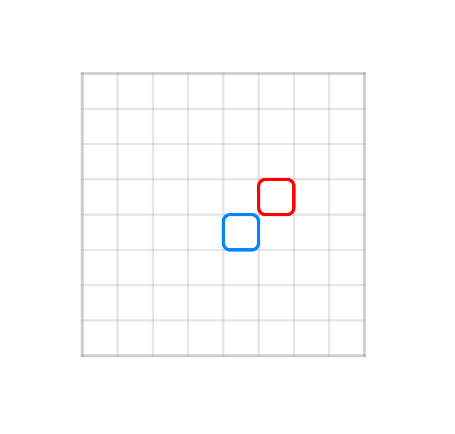
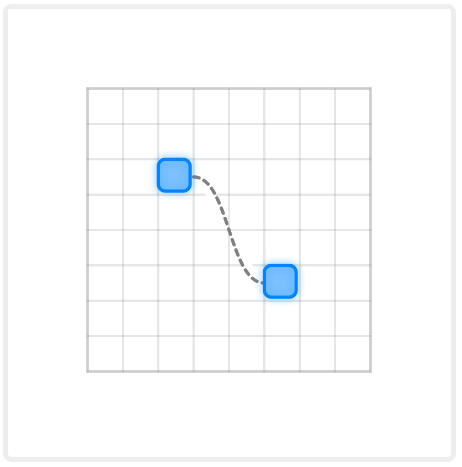
added examples

Changed region(s): [[0.1538, 0.1498, 0.8, 0.8387]]

diff --git a/README.md b/README.md
@@ -29,7 +29,7 @@ Basic usage:
 
 As result we get following canvas: 
 
-![example 1](./images/ex1.png)
+![example 0](./images/ex0.png)
 
 Camera can be setup with several parameters passed as props to Canvas component. Following properties are:
 ```ts
@@ -217,3 +217,139 @@ distance(x1: number, y1: number, x2: number, y2: number): number
 distanceMouse(x: number, y: number): number
 // returns distance between (x,y) and mouse position on plane
 ```
+
+## Examples
+### Click and translate
+```ts
+update=(cx) => {
+  cx.strokeWeight(3);
+  cx.setDash(5, 5);
+  cx.stroke(128);
+  cx.bezier(-1, -1.5, 0, -1.5, 0, 1.5, 1, 1.5);
+  cx.stroke(0, 132, 255);
+  cx.resetDash();
+  cx.fill(0, 132, 255, 100);
+  cx.setShadow(0, 0, 15, "#08f8");
+  cx.rect(-2, -2, 0.9, 0.9, 0.2);
+  cx.translate(3, 3); 
+  cx.rect(-2, -2, 0.9, 0.9, 0.2);
+}
+doubleClicked= (e, cx) => {
+  if (cx.rectMouse(-2, -2, 1, 1)) {
+    alert("Rectangle 1 double-clicked");
+  }
+  if (cx.rectMouse(1, 1, 1, 1)) {
+    alert("Rectangle 2 double-clicked");
+  }
+}
+```
+
+**Result:**
+
+![example 1](./images/ex1.png)
+
+Here alert will be show if double click performed on one of the squares. `cx.translate` function shifts coordinates from (0, 0) to (3, 3), thus second rectangle is draw 3 grid units to left and 3 grid units to bottom relative to the first one.
+
+### Mouse coordinates
+```ts
+update=(cx) => {
+  cx.strokeWeight(3);
+  cx.stroke(128);
+  cx.line(-0.5, 0.5, 2.5, 0.5);
+  cx.line(-2.5, -1.5, -2.5, 2.5);
+  cx.fill(200);
+  cx.circle(-0.5, 0.5, 0.3);
+  cx.circle(2.5, 0.5, 0.3);
+  cx.circle(-2.5, -1.5, 0.3);
+  cx.circle(-2.5, 2.5, 0.3);
+  cx.stroke(0, 132, 255);
+  cx.fill(0, 132, 255, 100);
+  cx.setShadow(0, 0, 15, "#08f8");
+  cx.rect(cx.bound(cx.mx - 0.5, -1, 2), 0, 1, 1, 0.2);
+  cx.rect(-3, cx.bound(cx.my - 0.5, -2, 2), 1, 1, 0.2);
+}
+```
+**Result:**
+
+![example 2](./images/ex2.png)
+
+Two rectangles are being bounded to mouseX and mouseY so that they move with mouse. `cx.bound` constrains value of mouse coordinate between two positions so that squares don't go out of border.
+
+### Relative coordinates
+```ts
+update=(cx) => {
+  cx.stroke(0, 132, 255);
+
+  cx.strokeWeight(16);
+  cx.point(-1, 0);
+  cx.strokeWeight(4);
+  cx.line(-2, -1, -2, 1);
+
+  cx.strokeWeight(cx.uv(0.5));
+  cx.point(1, 0);
+  cx.strokeWeight(cx.uv(0.1));
+  cx.line(2, -1, 2, 1);
+}
+```
+
+**Result:**
+
+![example 3](./images/ex3.png)
+
+Here two coordinates systems are being used to set size for line and point stroke. Regular one sets size unrelated to screen. After applying `cx.uv()` to the stroke weight on the right side, point's and line's stroke remains relative to zoom, so it's changes when you zoom in or out.
+
+### Screen space draw
+```ts
+update=(cx) => {
+  cx.stroke(0, 132, 255);
+  cx.fill(0, 132, 255, 100);
+  cx.setShadow(0, 0, 15, "#08f8");
+  cx.rect(cx.inx(32), cx.iny(32), cx.in(64), cx.in(64), cx.in(8));
+  cx.rect(-1, -1, 2, 2);
+  cx.stroke(128);
+  cx.setShadow(0, 0, 15, "#0002");
+  cx.fill(128, 100);
+  cx.p5.rect(-64, -64, 64, 64, 8);
+}
+```
+
+**Result:**
+
+![example 4](./images/ex4.png)
+Here we draw three rectangles using screen space through `cx.p5.rect` drawing function or through `cx.rect` applying coordinates transform before passing coordinates. As result two rectangles are drawn on screen and do not move or zoom with the plane, while regular rectangle `cx.rect(-1, -1, 2, 2)` stays bound to plane.
+
+### Noise and shape
+```ts
+update=(cx) => {
+  let t = cx.p5.frameCount / 60;
+  cx.stroke(0, 132, 255);
+  cx.fill(0, 132, 255, 100);
+  cx.setShadow(0, 0, 15, "#08f8");
+  cx.beginShape();
+  cx.vertex(0, cx.noise(0, t) * 4);
+  let n = Math.floor(cx.PI * 50);
+  let d = 4;
+  for (let i = 1; i < n - 3; i += 1) {
+    let r = cx.noise((i / n) * d, t) * 4;
+    let x = Math.sin((i / n) * cx.TAU) * r;
+    let y = Math.cos((i / n) * cx.TAU) * r;
+    cx.vertex(x, y);
+  }
+  cx.beginContour();
+  cx.vertex(0, cx.noise(0, t) * 2);
+  for (let i = 1; i < n - 3; i += 1) {
+    let r = cx.noise((i / n) * d, t) * 2;
+    let x = Math.sin(-(i / n) * cx.TAU) * r;
+    let y = Math.cos(-(i / n) * cx.TAU) * r;
+    cx.vertex(x, y);
+  }
+  cx.endContour();
+  cx.endShape(cx.CLOSE);
+}
+```
+
+**Result:**
+
+![example 5](./images/ex5.png)
+
+Here you can see figure that changes over time as frameCount increases each second by 60. We use `cx.beginFigure()` to start drawing figure and then in the loop we define it's vertices. Than in that figure we start contour `cx.beginContour()` to cut-out inside of that shape. then we close contour and figure via `cx.endContour(); cx.endFigure()`. As result we get random figure with random shaped hole in it.
